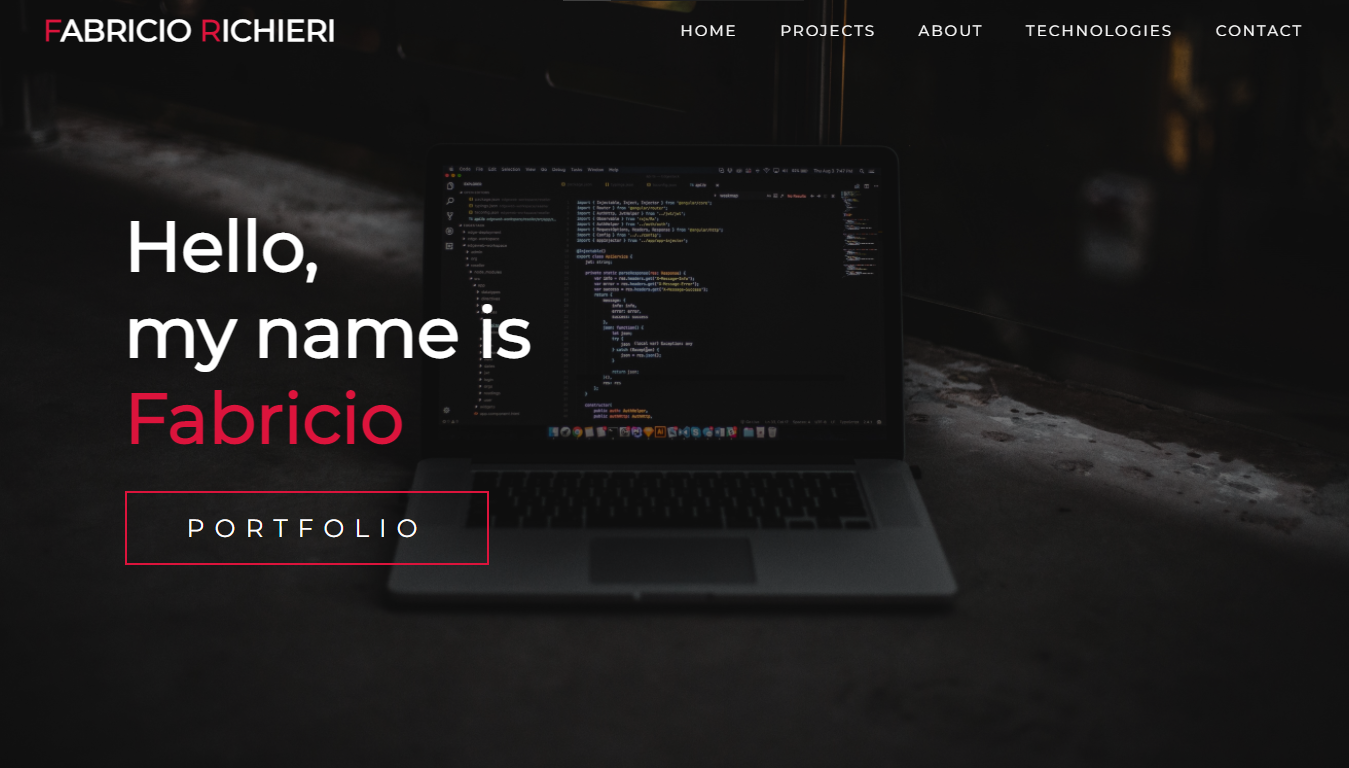
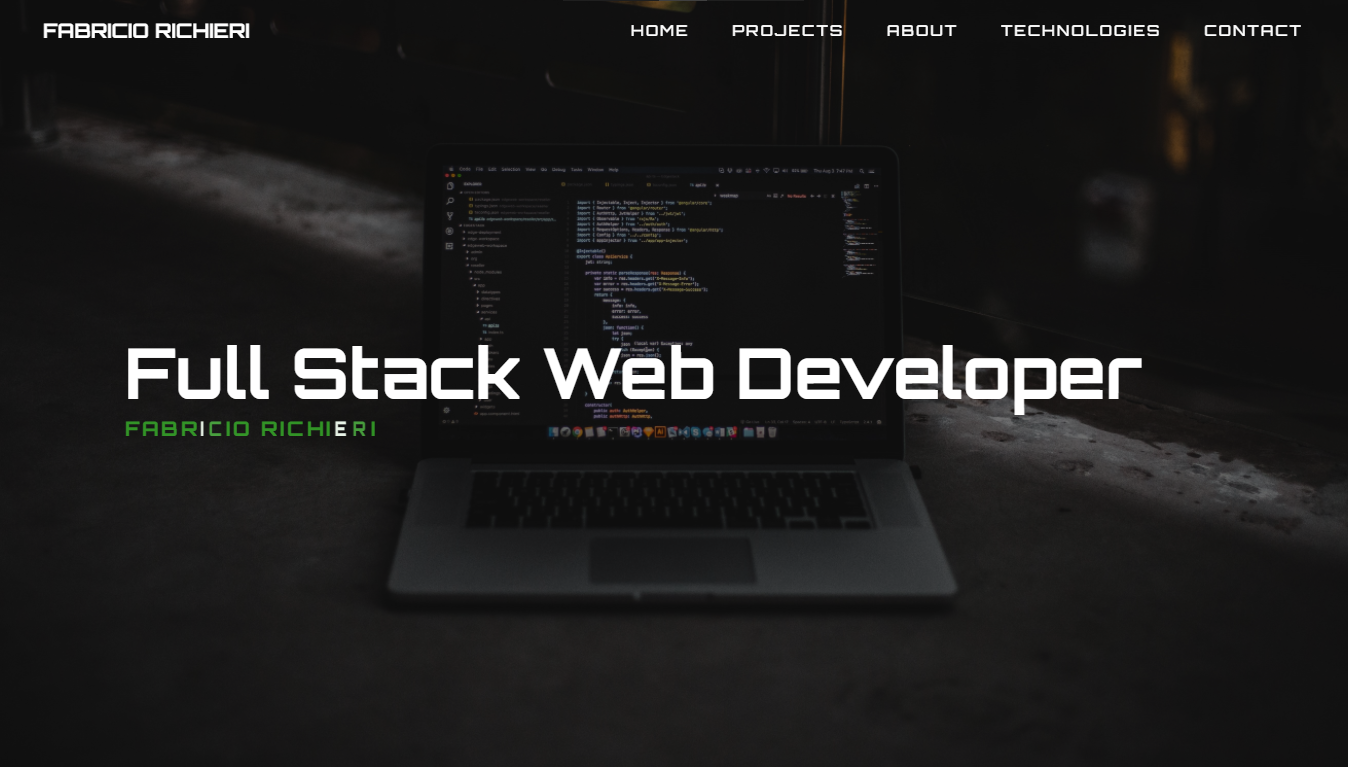
OK

diff --git a/index.html b/index.html
@@ -13,7 +13,7 @@
         <div class="header container">
             <div class="nav-bar">
                 <div class="brand">
-                    <a href="#hero"><h1><span>F</span>abricio <span>R</span>ichieri</h1></a>
+                   <h1>fabricio richieri</h1> 
                 </div>
                 <div class="nav-list">
                     <div class="hamburger"><div class="bar"></div></div>
@@ -34,10 +34,30 @@
     <section id="hero">
         <div class="hero container">
             <div>
-                <h1>Hello,<span></span></h1>
-                <h1>my name is  <span></span></h1>
-                <h1>Fabricio <span></span></h1>
-                <a href="#projects" type="button" class="cta">Portfolio</a>
+                <!-- <h1>Hello,<span></span></h1>
+                <h1>my name is  <span></span></h1> -->
+                <h1>Full Stack Web Developer <span></span></h1>
+                <div class="brand">
+                    <!-- <a href="#hero"><h1><span>F</span>abricio <span>R</span>ichieri</h1></a> -->
+                          <span style="--i:1">F</span>
+                          <span style="--i:2">A</span>
+                          <span style="--i:3">B</span>
+                          <span style="--i:4">R</span>
+                          <span style="--i:5">I</span>
+                          <span style="--i:6">C</span>
+                          <span style="--i:7">I</span>
+                          <span style="--i:8">O</span>
+                          <span style="--i:9">&nbsp</span>
+                          <span style="--i:10">R</span>
+                          <span style="--i:11">I</span>
+                          <span style="--i:12">C</span>
+                          <span style="--i:13">H</span>
+                          <span style="--i:14">I</span>
+                          <span style="--i:15">E</span>
+                          <span style="--i:16">R</span>
+                          <span style="--i:17">I</span>
+                </div>
+                <!-- <a href="#projects" type="button" class="cta">Portfolio</a> -->
             </div>
         </div>
     </section>
@@ -124,7 +144,7 @@
             </div>
             <div class="col-right">
                 <h1 class="section-title"> About <span>Me</span></h1>
-                <h2>Hi! I live in Buenos Aires, Argentina and I'm currently stuying the Full Stack Web Development career in the <a target="_blank" href="https://www.soyhenry.com/">#SoyHenry </a>Bootcamp, expecting to graduate in may 2022. Also, I'm studying a Bachelor's Degree in Information Systems in the University of Buenos Aires.</h2>
+                <h2>Hi! I live in Buenos Aires, Argentina and I'm currently studying the Full Stack Web Development career in the <a target="_blank" href="https://www.soyhenry.com/">#SoyHenry </a>Bootcamp, expecting to graduate in may 2022. Also, I'm studying a Bachelor's Degree in Information Systems in the University of Buenos Aires. I'm looking for my first job as developer. You can contact me on Linkedin below if you desire.</h2>
             </div>
         </div>
     </section>
@@ -192,7 +212,7 @@
     <!-- Footer -->
     <section id="footer">
         <div class="footer container">
-            <div class="brand"><h1><span>F</span>abricio <span>R</span>ichieri</h1></div>
+            <div class="brand-footer"><h1><span>F</span>ABRICIO <span>R</span>ICHIERI</h1></div>
             <div class="social-icon">
                 <div class="social-item">
                     <a href="https://github.com/FARichieri" target="_blank"><img src="https://img.icons8.com/ios-filled/50/000000/github.png"/></a>

diff --git a/style.css b/style.css
@@ -55,7 +55,7 @@ p {
 }
 
 .section-title span {
-    color: crimson;
+    color: rgba(73, 251, 53, 0.548);
 }
 
 .cta {
@@ -63,7 +63,7 @@ p {
     padding: 10px 30px;
     color: white;
     background-color: transparent;
-    border: 2px solid crimson;
+    border: 2px solid rgba(73, 251, 53, 0.548);
     font-size: 2rem;
     text-transform: uppercase;
     letter-spacing: 1rem;
@@ -74,18 +74,19 @@ p {
 
 .cta:hover {
     color:white;
-    background-color: crimson;
+    background-color: rgba(73, 251, 53, 0.548);
 }
 
 .brand h1 {
-    font-size: 3rem;
+    font-size: 2rem;
     text-transform: uppercase;
     color: white;
 }
 
 .brand h1 span {
-    color: crimson;
+    color: white;
 }
+
 
 /* Header Section */
 #header {
@@ -101,6 +102,7 @@ p {
     min-height: 8vh;
     background-color: rgba(31, 30, 30, 0.24);
     transition: .5s ease background-color;
+
 }
 
 #header .nav-bar {
@@ -164,7 +166,7 @@ p {
 }
 
 #header .nav-list ul li:hover a {
-    color:crimson;
+    color:rgba(73, 251, 53, 0.548);
 }
 
 #header .hamburger {
@@ -197,7 +199,7 @@ p {
     height: 2px;
     width: 30px;
     position: relative;
-    background-color: crimson;
+    background-color: rgba(73, 251, 53, 0.548);
     z-index: -1;
 }
 #header .hamburger .bar::after,
@@ -207,7 +209,7 @@ p {
     height: 100%;
     width: 100%;
     left: 0;
-    background-color: crimson;
+    background-color: rgba(73, 251, 53, 0.548);
     transition: .3s ease;
     transition-property: top, bottom; 
 }
@@ -255,6 +257,27 @@ p {
     padding: 0 50px;
     justify-content: flex-start;
 }
+/* test */
+
+  .brand {
+    position: relative;
+  }
+  .brand span {
+    position: relative;
+    display: inline-block;
+    font-size: 20px;
+    color: white;
+    font-weight: bolder;
+    text-transform: uppercase;
+    animation: flip 2s infinite;
+    animation-delay: calc(.2s * var(--i))
+  }
+  @keyframes flip {
+    0%,80% {
+      transform: rotateY(360deg);
+      color: rgba(73, 251, 53, 0.548);
+    }
+  }
 
 #hero h1 {
     display: block;
@@ -285,7 +308,7 @@ p {
     left: 0;
     height: 100%;
     width: 0%;
-    background-color: crimson;
+    background-color: rgba(73, 251, 53, 0.548);
     animation: text_reveal_box 1s ease;
     animation-delay: .5s;
 }
@@ -431,7 +454,7 @@ p {
 
 #projects .project-info-title {
     white-space: nowrap;
-    color: rgba(255, 0, 0, 0.561);
+    color: rgba(73, 251, 53, 0.548);
     text-shadow: 1px 10px 1px rgb(235, 1, 1);
 }
 
@@ -534,7 +557,7 @@ p {
     top: 20px;
     height: 98%;
     width: 98%;
-    border: 7px solid crimson;
+    border: 7px solid rgba(73, 251, 53, 0.548);
     z-index: -1;
 }
 
@@ -596,6 +619,15 @@ p {
     /* background-image: linear-gradient(50deg, #03030300 0%, rgba(255, 255, 255, 0.609) 100%); */
     background-color: rgba(255, 255, 255, 0.185);
 
+}
+
+#footer .brand-footer {
+    font-size: 20px;
+}
+
+
+#footer h1 span {
+    color: rgba(73, 251, 53, 0.548);
 }
 
 #footer .footer {
@@ -672,7 +704,7 @@ p {
 
 @keyframes text_reveal_name {
     100% {
-        color: crimson;
+        color: rgba(73, 251, 53, 0.548);
         font-weight: 500px;
     }
 }
@@ -690,6 +722,14 @@ p {
     #services .service-bottom .service-item {
         flex-basis: 30%;
         margin: 2%;
+    }
+
+    #header .brand  {
+        display: flex;
+    }
+
+   #header .brand span {
+        font-size: 25px;
     }
 }
 /* End Media Query For Phone  */
@@ -765,7 +805,7 @@ p {
         top: 34px;
         height: 98%;
         width: 98%;
-        border: 10px solid crimson;    
+        border: 10px solid rgba(73, 251, 53, 0.548);    
     }
 
     #about .col-right {

diff --git a/app.js b/app.js
@@ -10,8 +10,11 @@ hamburger.addEventListener('click', () => {
 
 document.addEventListener('scroll', () => {
     var scroll_position = window.scrollY;
-    if (scroll_position > 250) {
+    if (scroll_position > 700) {
+        header.style.backgroundColor = "rgba(0, 0, 0)"
+    }  else if (scroll_position > 250) {
         header.style.backgroundColor = "rgba(255, 255, 255, 0.134)"
+
     } else {
         header.style.backgroundColor = "transparent"
 
